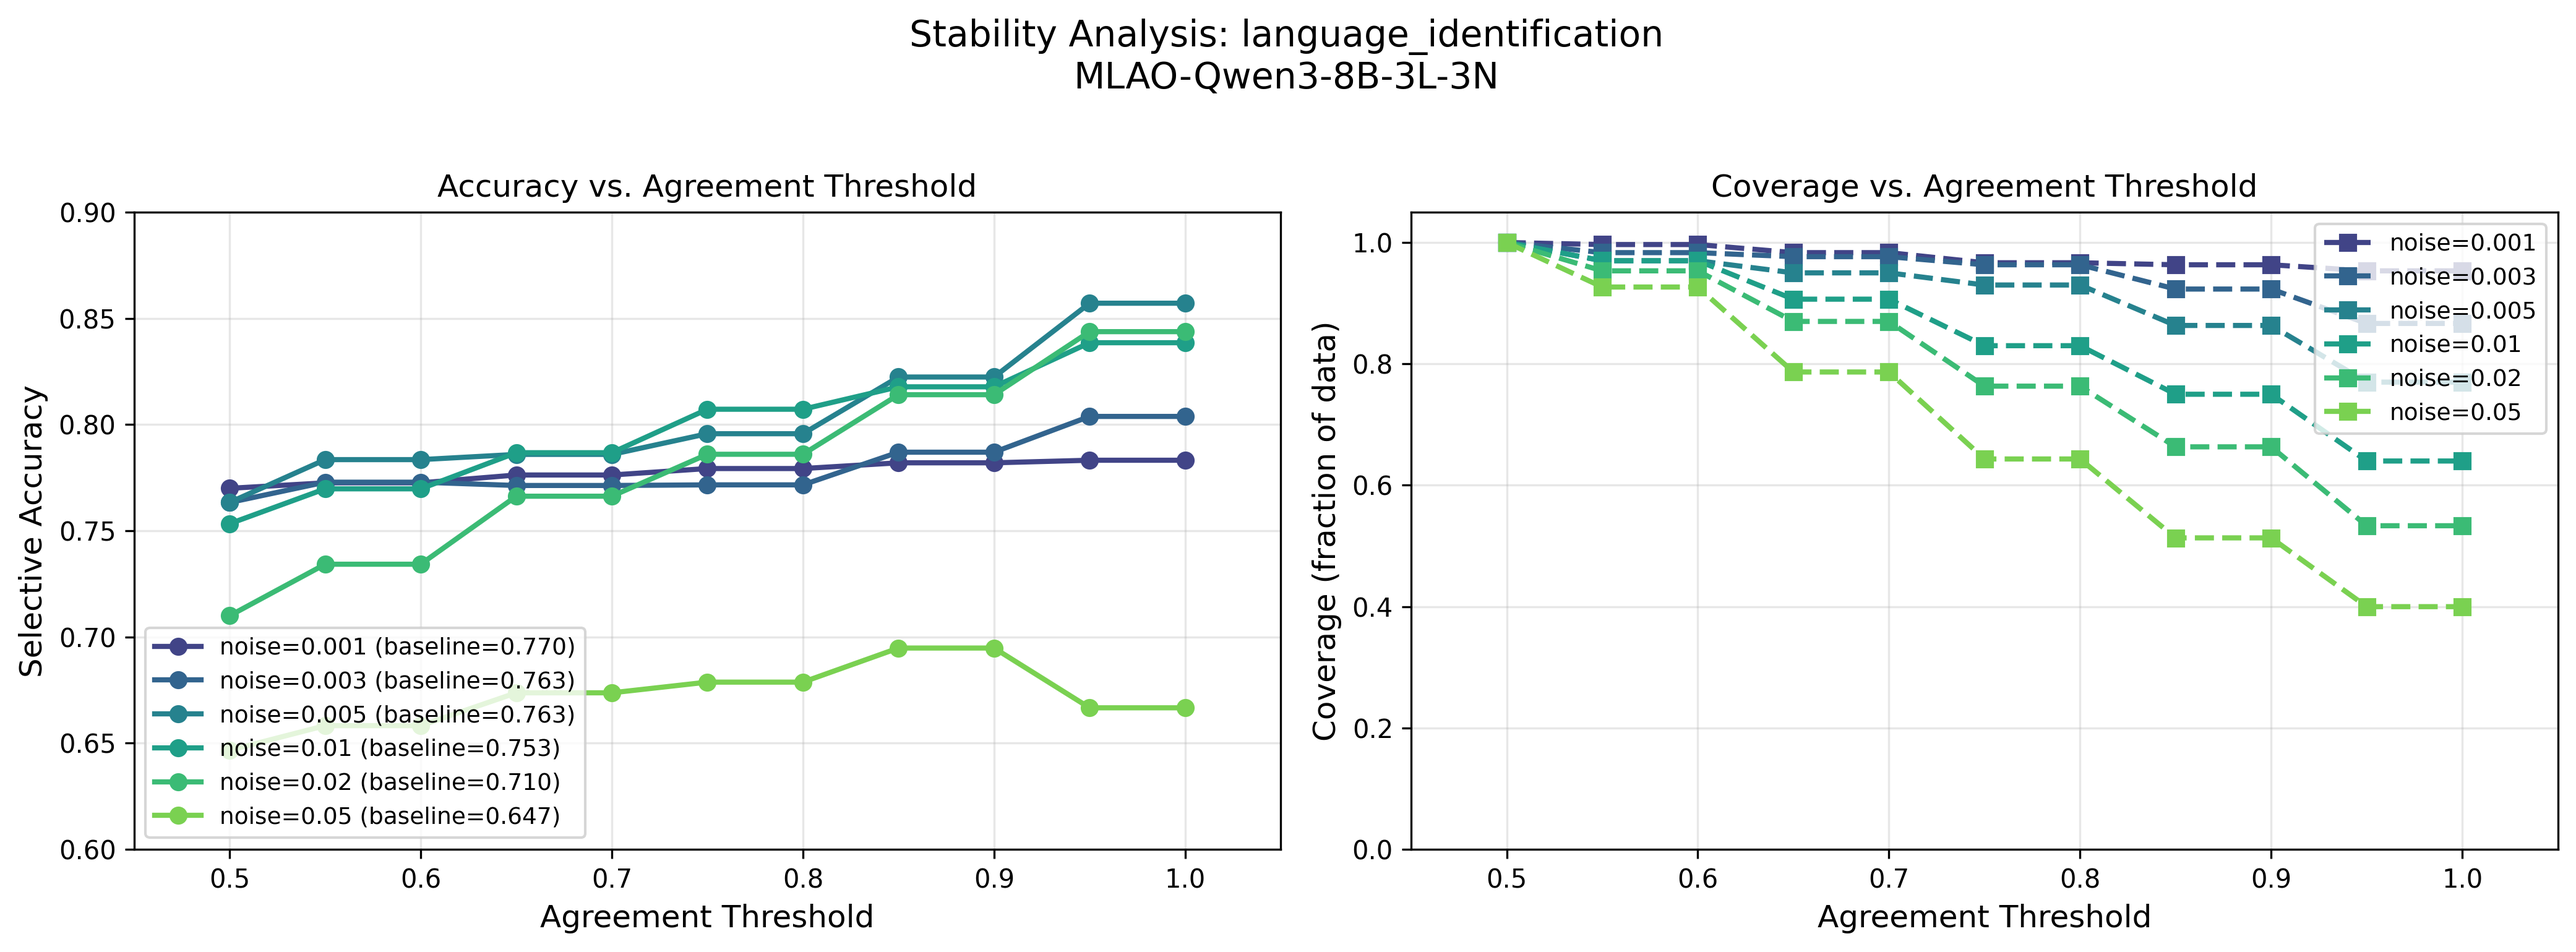
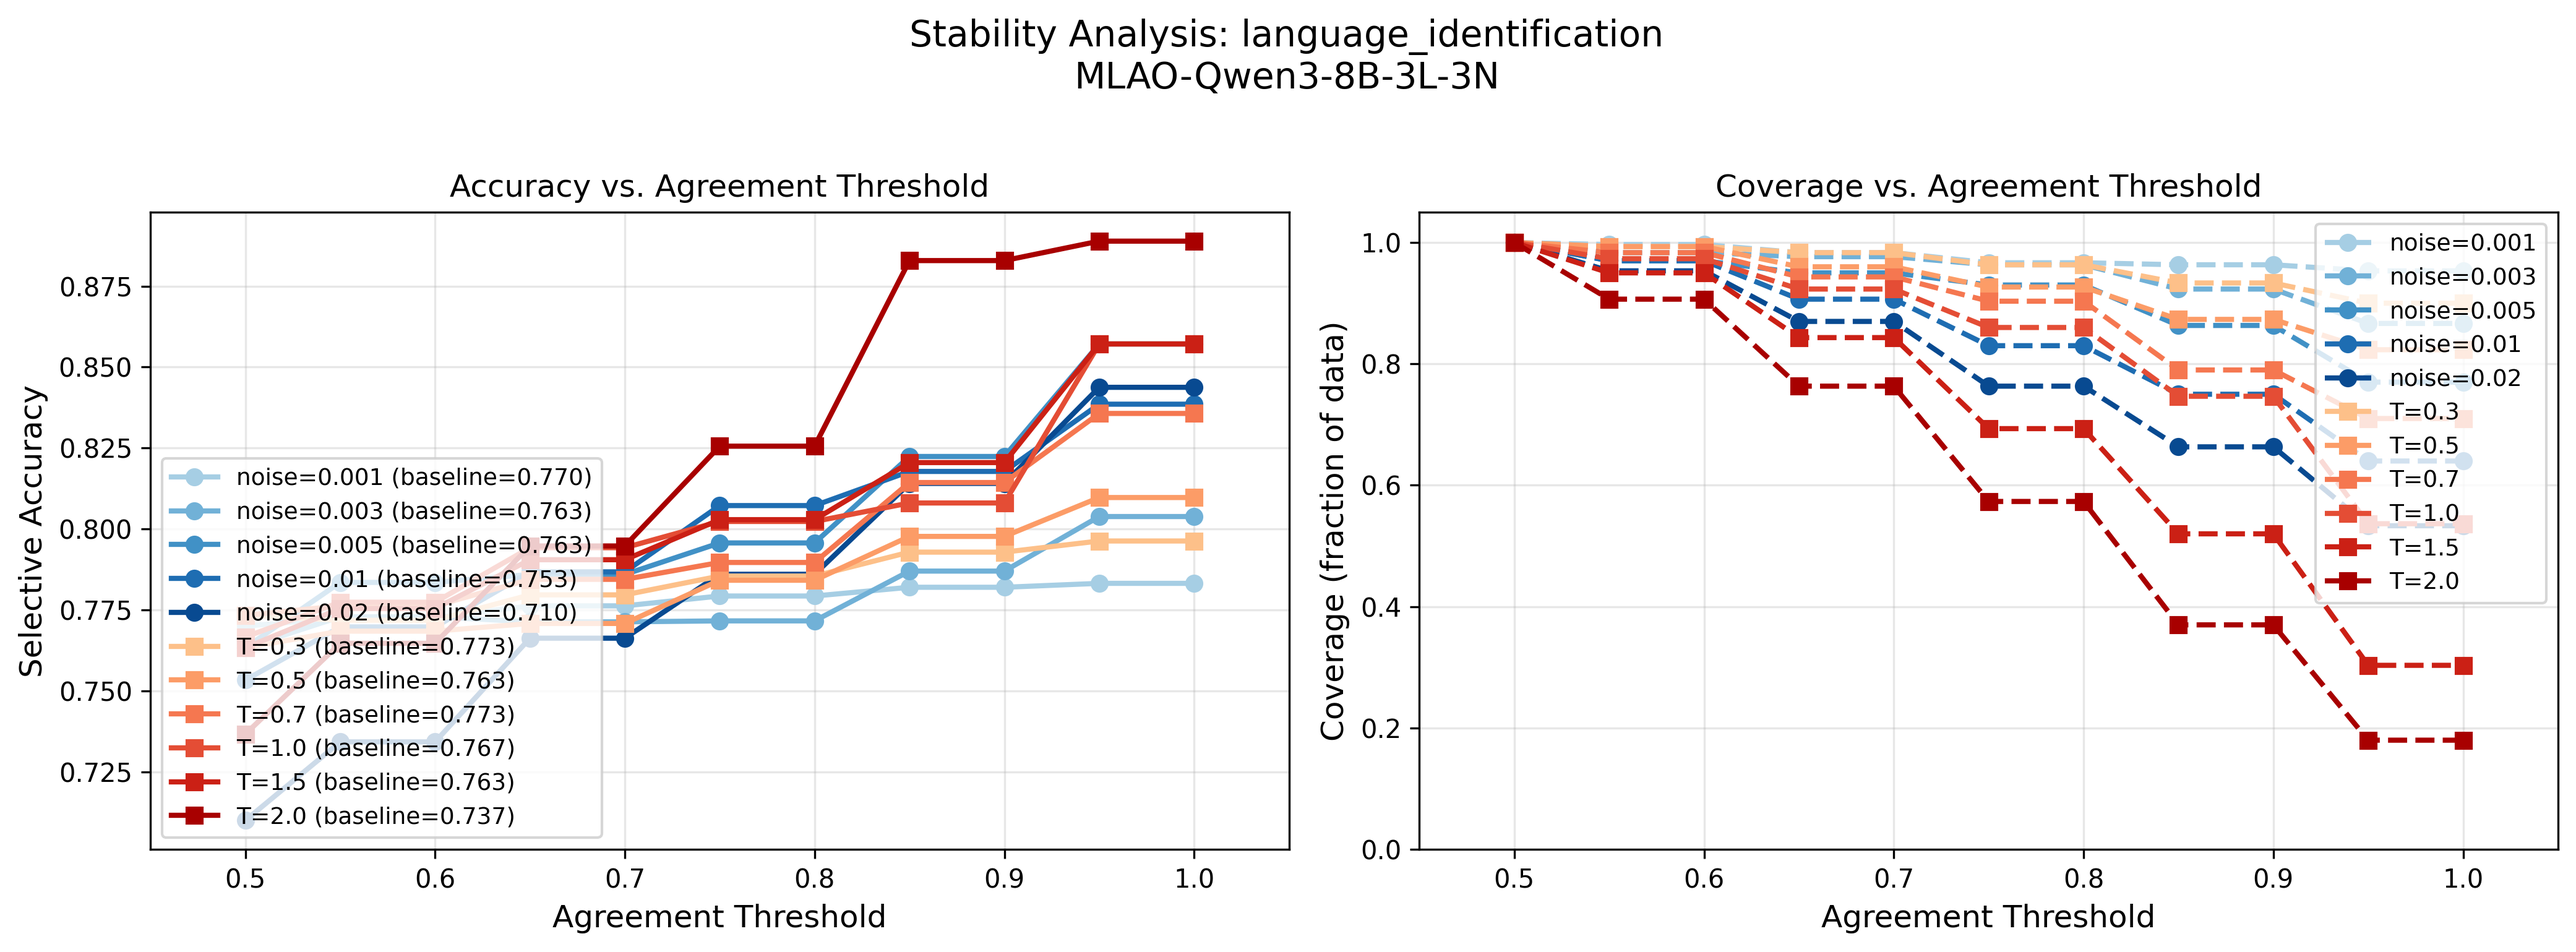
added temperature and noise scans in same tradeoff plot

diff --git a/experiments/plotting/plot_stability_eval.py b/experiments/plotting/plot_stability_eval.py
@@ -32,13 +32,13 @@ EXPERIMENTS: list[tuple[str, float]] = [
     ("noise", 0.005),
     ("noise", 0.01),
     ("noise", 0.02),
-    # ("noise", 0.05),
-    # ("temperature", 0.3),
-    # ("temperature", 0.5),
-    # ("temperature", 0.7),
-    # ("temperature", 1.0),
-    # ("temperature", 1.5),
-    # ("temperature", 2.0),
+    #("noise", 0.05),
+    ("temperature", 0.3),
+    ("temperature", 0.5),
+    ("temperature", 0.7),
+    ("temperature", 1.0),
+    ("temperature", 1.5),
+    ("temperature", 2.0),
 ]
 
 # Input/output paths
@@ -100,30 +100,78 @@ def make_label(mode: str, param: float) -> str:
     return f"T={param}"
 
 
+def assign_colors(
+    entries: list[tuple[str, str, float]],
+) -> list[tuple[float, float, float, float]]:
+    """
+    Assign colors to entries based on mode.
+    
+    Blues for noise, oranges/reds for temperature.
+    Intensity varies within each family (lighter = smaller param, darker = larger param).
+    
+    Args:
+        entries: list of (label, mode, param) tuples
+    
+    Returns:
+        List of RGBA color tuples, one per entry.
+    """
+    noise_entries = [(i, p) for i, (_, m, p) in enumerate(entries) if m == "noise"]
+    temp_entries = [(i, p) for i, (_, m, p) in enumerate(entries) if m == "temperature"]
+    
+    colors: list[tuple[float, float, float, float] | None] = [None] * len(entries)
+    
+    # Blues for noise (range 0.3–0.9 to avoid too-light / too-dark extremes)
+    if noise_entries:
+        n = len(noise_entries)
+        blue_values = plt.cm.Blues(np.linspace(0.35, 0.9, n))
+        for j, (idx, _) in enumerate(noise_entries):
+            colors[idx] = tuple(blue_values[j])
+    
+    # Oranges/reds for temperature
+    if temp_entries:
+        n = len(temp_entries)
+        red_values = plt.cm.OrRd(np.linspace(0.35, 0.9, n))
+        for j, (idx, _) in enumerate(temp_entries):
+            colors[idx] = tuple(red_values[j])
+    
+    return colors
+
+
+def assign_markers(mode: str) -> str:
+    """Return marker style based on mode."""
+    if mode == "noise":
+        return "o"
+    return "s"
+
+
 # ============================================================================
 # Plotting Functions
 # ============================================================================
 
 
 def plot_curves(
-    results_by_label: dict[str, dict],
+    entries: list[tuple[str, str, float, dict]],
     output_path: str,
     title: str = "Stability Analysis: Accuracy & Coverage vs. Threshold",
 ):
     """
     Plot accuracy and coverage curves for multiple experiments on the same plot.
+    
+    Args:
+        entries: list of (label, mode, param, data) tuples
     """
     thresholds = np.linspace(0.5, 1.0, 11)
 
-    n = len(results_by_label)
-    colors = plt.cm.viridis(np.linspace(0.2, 0.8, n))
+    color_inputs = [(label, mode, param) for label, mode, param, _ in entries]
+    colors = assign_colors(color_inputs)
 
     fig, (ax1, ax2) = plt.subplots(1, 2, figsize=(14, 5))
 
     # Plot 1: Accuracy vs Threshold
-    for i, (label, data) in enumerate(results_by_label.items()):
+    for i, (label, mode, param, data) in enumerate(entries):
         results = data["results"]
         baseline_acc = data["summary"]["baseline_accuracy"]
+        marker = assign_markers(mode)
 
         accuracies = []
         for thresh in thresholds:
@@ -132,7 +180,7 @@ def plot_curves(
 
         ax1.plot(
             thresholds, accuracies,
-            "o-", color=colors[i], linewidth=2, markersize=6,
+            f"{marker}-", color=colors[i], linewidth=2, markersize=6,
             label=f"{label} (baseline={baseline_acc:.3f})"
         )
 
@@ -144,8 +192,9 @@ def plot_curves(
     ax1.set_title("Accuracy vs. Agreement Threshold", fontsize=12)
 
     # Plot 2: Coverage vs Threshold
-    for i, (label, data) in enumerate(results_by_label.items()):
+    for i, (label, mode, param, data) in enumerate(entries):
         results = data["results"]
+        marker = assign_markers(mode)
 
         coverages = []
         for thresh in thresholds:
@@ -154,7 +203,7 @@ def plot_curves(
 
         ax2.plot(
             thresholds, coverages,
-            "s--", color=colors[i], linewidth=2, markersize=6,
+            f"{marker}--", color=colors[i], linewidth=2, markersize=6,
             label=label,
         )
 
@@ -174,7 +223,7 @@ def plot_curves(
 
 
 def plot_tradeoff(
-    results_by_label: dict[str, dict],
+    entries: list[tuple[str, str, float, dict]],
     output_path: str,
     title: str = "Accuracy-Coverage Tradeoff",
 ):
@@ -182,13 +231,15 @@ def plot_tradeoff(
     Plot accuracy vs coverage (parametric in threshold) for multiple experiments.
     """
     thresholds = np.linspace(0.5, 1.0, 11)
-    n = len(results_by_label)
-    colors = plt.cm.viridis(np.linspace(0.2, 0.8, n))
+
+    color_inputs = [(label, mode, param) for label, mode, param, _ in entries]
+    colors = assign_colors(color_inputs)
 
     fig, ax = plt.subplots(figsize=(8, 6))
 
-    for i, (label, data) in enumerate(results_by_label.items()):
+    for i, (label, mode, param, data) in enumerate(entries):
         results = data["results"]
+        marker = assign_markers(mode)
 
         accuracies = []
         coverages = []
@@ -199,14 +250,13 @@ def plot_tradeoff(
 
         ax.plot(
             coverages, accuracies,
-            "o-", color=colors[i], linewidth=2, markersize=6,
+            f"{marker}-", color=colors[i], linewidth=2, markersize=6,
             label=label,
         )
 
     ax.set_xlabel("Coverage", fontsize=12)
     ax.set_ylabel("Selective Accuracy", fontsize=12)
     ax.set_xlim(0.1, 1.05)
-    ax.set_ylim(0.7, 0.9)
 
     ax.legend(loc="lower left", fontsize=10)
     ax.grid(True, alpha=0.3)
@@ -218,17 +268,17 @@ def plot_tradeoff(
     plt.close()
 
 
-def print_summary_table(results_by_label: dict[str, dict]):
+def print_summary_table(entries: list[tuple[str, str, float, dict]]):
     """Print a summary table of key metrics for each experiment."""
     print("\n" + "=" * 80)
     print("SUMMARY TABLE")
     print("=" * 80)
-    print(f"{'Experiment':<24} {'Baseline Acc':<14} {'Mean Agreement':<16} {'N Examples':<12}")
+    print(f"{'Experiment':<24} {'Mode':<14} {'Baseline Acc':<14} {'Mean Agreement':<16} {'N Examples':<12}")
     print("-" * 80)
 
-    for label, data in results_by_label.items():
+    for label, mode, param, data in entries:
         summary = data["summary"]
-        print(f"{label:<24} {summary['baseline_accuracy']:<14.3f} "
+        print(f"{label:<24} {mode:<14} {summary['baseline_accuracy']:<14.3f} "
               f"{summary['mean_agreement_rate']:<16.3f} {summary['n_examples']:<12}")
 
     print("=" * 80 + "\n")
@@ -247,45 +297,50 @@ if __name__ == "__main__":
     print(f"Experiments: {EXPERIMENTS}")
     print(f"{'=' * 60}")
 
-    # Load all results
-    results_by_label: dict[str, dict] = {}
+    # Load all results as (label, mode, param, data) tuples
+    entries: list[tuple[str, str, float, dict]] = []
 
     for mode, param in EXPERIMENTS:
         json_path = get_json_path(MODEL_NAME, VERBALIZER_LORA, DATASET_NAME, mode, param)
         data = load_results_json(json_path)
         if data is not None:
             label = make_label(mode, param)
-            results_by_label[label] = data
+            entries.append((label, mode, param, data))
             print(f"  Loaded: {label} ({len(data['results'])} examples)")
 
-    if not results_by_label:
+    if not entries:
         print("ERROR: No results found! Check your configuration and JSON paths.")
         exit(1)
 
     # Print summary
-    print_summary_table(results_by_label)
+    print_summary_table(entries)
 
-    # Generate output filename that includes all plotted params
+    # Check which modes are present
+    modes_present = set(m for _, m, _, _ in entries)
+    has_noise = "noise" in modes_present
+    has_temp = "temperature" in modes_present
+    if has_noise and has_temp:
+        print("Plotting both noise (blues) and temperature (oranges/reds) experiments")
+    elif has_noise:
+        print("Plotting noise experiments (blues)")
+    else:
+        print("Plotting temperature experiments (oranges/reds)")
+
+    # Generate output filename
     model_name_str = MODEL_NAME.split("/")[-1]
     lora_name_str = VERBALIZER_LORA.split("/")[-1]
-    # Build a compact param string from all experiments, e.g. "noise0.003_noise0.01" or "temp0.3_temp1.0_temp2.0"
-    param_parts = []
-    for mode, param in EXPERIMENTS:
-        if f"{make_label(mode, param)}" in results_by_label:
-            param_parts.append(f"{'noise' if mode == 'noise' else 'temp'}{param}")
-    params_str = "_".join(param_parts)
-    output_base = f"{OUTPUT_DIR}/stability_comparison_{model_name_str}_{lora_name_str}_{DATASET_NAME}_{params_str}"
+    output_base = f"{OUTPUT_DIR}/stability_comparison_{model_name_str}_{lora_name_str}_{DATASET_NAME}"
 
     # Plot 1: Accuracy & Coverage vs Threshold (side by side)
     plot_curves(
-        results_by_label=results_by_label,
+        entries=entries,
         output_path=f"{output_base}_curves.png",
         title=f"Stability Analysis: {DATASET_NAME}\n{lora_name_str}",
     )
 
     # Plot 2: Accuracy-Coverage Tradeoff
     plot_tradeoff(
-        results_by_label=results_by_label,
+        entries=entries,
         output_path=f"{output_base}_tradeoff.png",
         title=f"Accuracy-Coverage Tradeoff: {DATASET_NAME}\n{lora_name_str}",
     )
